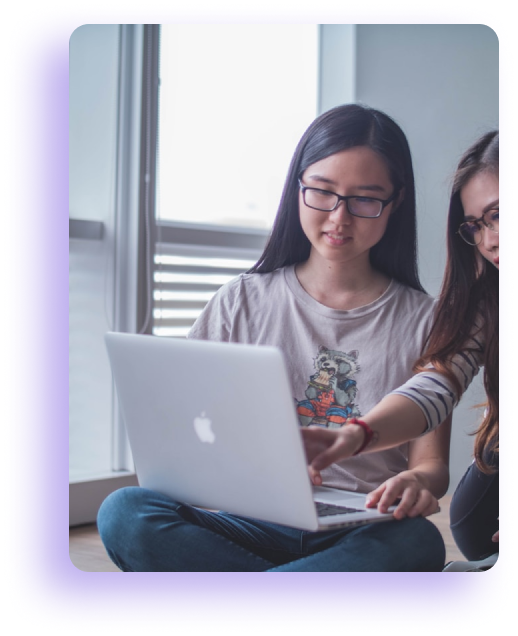
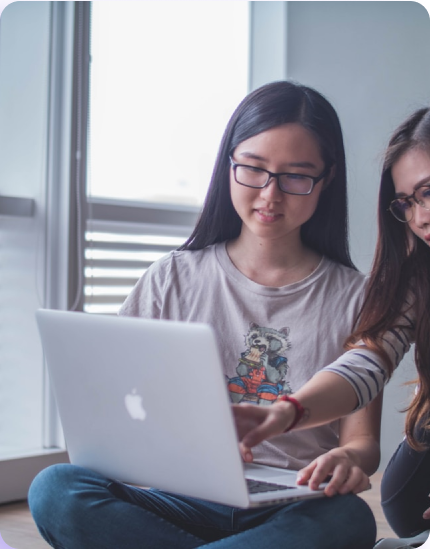
diplom

diff --git a/main.html b/main.html
@@ -45,6 +45,9 @@
                 </div>
             </header>
             <section class="building">
+                <div class="duilding__img">
+                    <img src="./images/featured-image.png" alt="">
+                </div>
                 <div class="conteiner">
                     <div class="building__row">
                         <div class="building__content">
@@ -56,9 +59,6 @@
                             <button>Start a New Store</button>
                             <span>or</span>
                             <a href=""><b>Customize & Extend ›</b></a>
-                        </div>
-                        <div class="duilding__img">
-                            <img src="./images/featured-image.png" alt="">
                         </div>
                     </div>
                 </div>
@@ -90,13 +90,16 @@
                 </div>
             </section>
             <section class="global">
+                <div class="global__img-fon">
+                    <img src="./images/Rectangle 234.png" alt="">
+                </div>
                 <div class="conteiner">
                     <div class="global__row">
                         <div>
                             <img src="./images/Rectangle 236.png" alt="">
                         </div>
-                        <div>
-                            <h3>Develop Without Limits</h3>
+                        <div class="global__content">
+                            <h3>Develop <br> Without Limits</h3>
                             <p>
                                 WooCommerce is developer friendly, too. Built with a REST API, WooCommerce is scalable and can integrate with virtually any service. Design a complex store from scratch, extend a store for a client, or simply add a single product to a WordPress site—your store, your way.
                             </p>
@@ -108,7 +111,7 @@
                             <img src="./images/Rectangle 233.png" alt="">
                         </div>
                         <div>
-                            <h3>Know our Global Community</h3>
+                            <h3>Know our <br> Global Community</h3>
                             <p>
                                 WooCommerce is one of the fastest-growing eCommerce communities. We’re proud that the helpfulness of the community and a wealth of online resources are frequently cited as reasons our users love it. There are 80+ meetups worldwide!
                             </p>
@@ -117,7 +120,52 @@
                     </div>
                 </div>
             </section>
-            
-        
+            <section class="agencies">
+                <div class="conteiner">
+                    <h3>Trusted by Agencies
+                        & Store Owners</h3>
+                </div>
+                <div class="agencies__grows">
+                    <div class="agencies__grows-img">
+                        <img src="./images/block4/123.png" alt="">
+                    </div>
+                    <p>
+                        No other eCommerce platform allows people to start for free and grow their store as their business grows. More importantly, WooCommerce doesn't charge you a portion of your profits as your business grows!
+                    </p>
+                </div>
+            </section>
+            <section class="supported">
+                <div class="conteiner">
+                    <h3>Supported by real people</h3>
+                    <p>
+                        Our team of Happiness Engineers works remotely from 58 countries providing customer support across multiple time zones.
+                    </p>
+                    <div class="supported__img">
+                        <img src="./images/image 24.png" alt="">
+                    </div>
+                    
+                </div>
+                <div class="supported__fon">
+                    <div class="conteiner conteiner__row">
+                    <p>
+                        WooCommerce - the <b> most customizable eCommerce platform </b> for building <b> your online business.</b>
+                    </p>
+                    <button>GET STARTED</button>
+                </div>
+            </section>
+            <footer>
+                <div class="conteiner">
+                    <div class="footer__garant">
+                        <div class="footer__garant-money">
+                            <div class="footer__garant-img">
+                                <img src="./images/block5/Vector.png" alt="">
+                            </div>
+                            <p>
+                                30 day <b>money back guarantee</b>
+                            </p>
+                        </div>
+                    </div>
+                </div>
+            </footer>
     </body>
 </html>

diff --git a/main.css b/main.css
@@ -2,25 +2,28 @@ p,span{
     font-family:"Roboto", sans-serif;
 }
 h1,h2,h3,h4,h5,h6{
-    font-family: "Merriweather", sans-serif;
+    font-family: "Roboto", sans-serif;
     font-weight: bold;
 }
 a{
     font-family:"Roboto", sans-serif;
     text-decoration-line: none;
 }
+button{
+    outline: none;
+    box-shadow: none;
+}
 body{
     margin: 0;
-    box-sizing: border-box;
-    
+    box-sizing: border-box;    
 }
 .hero-fon{
-    width: 1920px;
+    width: 100%;
     background: linear-gradient(180deg, #E5EFFF 0%, rgba(229, 239, 255, 0.262661) 83.7%, rgba(229, 239, 255, 0) 100%);
    
 }
 .hero{
-    width: 1920px;
+    width: 100%;
     display: flex;
     justify-content: space-between;
     
@@ -72,14 +75,21 @@ body{
     margin: 0 30px 0 38px;
 }
 .conteiner{
-    width: 1490px;
+    width: 1320px;
     padding: 0 20px;
     margin: 0 auto;
+    position: relative;
+}
+.building{
+    position: relative;
 }
 .building__row{
     width: 100%;
     display: flex;
     justify-content: space-between;
+}
+.building img{
+    width: 100%;
 }
 .building__content h1{
     width: 818px;
@@ -109,13 +119,13 @@ body{
     color: #94A2B3;
 }
 .duilding__img{
-    width: 850px;
+    width: 40%;
     position: absolute;
-    margin-left: 80%;
+    right: 0;
     margin-top: 69px;
 }
 .simple{
-    width: 1920px;
+    width: 100%;
 }
 .simple h3{
     text-align: center;
@@ -161,14 +171,167 @@ body{
     font-weight: bold;
 }
 .global{
-    background: #7854F7;
-    width: 1920px;
+        width: 100%;
     margin-top: 273px;
+    margin-bottom: 99px;
+}
+.global__img-fon{
+    position: absolute;
+    width: 100%;
+    margin-top: 41px;
+}
+.global__img-fon img{
+    width: 100%;
 }
 .global__row{
     display: flex;
+    margin-left: 108px;
 }
 .global__row-reversed{
     display: flex;
     flex-direction: row-reverse;
+}
+.global__row img{
+    width: 430px;
+    background: url(.jpg), #FFFFFF;
+    box-shadow: -25px 20px 44px rgba(84, 48, 209, 0.4);
+    border-radius: 20px;
+
+}
+.global__content{
+    margin: 138px 0 0 70px
+}
+.global h3{
+    color: #FFFFFF;
+    font-size: 36px;
+    width: 435px;
+    margin: 0;
+}
+.global p{
+    width: 480px;
+    font-size: 18px;
+    color: #FFFFFF;
+    margin: 13px 0 39px 0;
+}
+.global button{
+    border-radius: 60px;
+    background: #70C217;
+    width: 256px;
+    height: 64px;
+    color: #FFFFFF;    
+}
+.agencies{
+    width: 100%;
+    background: linear-gradient(180deg, rgba(236, 240, 253, 0) 0%, rgba(236, 240, 253, 0.53) 14.32%, #ECF0FD 45.83%, rgba(236, 240, 253, 0.43) 84.33%, rgba(236, 240, 253, 0) 100%);
+}
+
+.agencies h3{
+    font-size: 55px;
+    text-align: center;
+    width: 520px;
+    margin: 0 auto;
+    color: #272D4E;
+    margin-top: 237px;
+}
+.agencies__grows{
+    width: 730px;
+    height: 391px;
+    background: #FFFFFF;
+    box-shadow: 0px 18px 52.8537px rgba(215, 228, 249, 0.5);
+    border-radius: 20px;
+    margin: auto;
+    display: flex;
+    flex-direction: column;
+    margin-top: 103px;
+    
+}
+.agencies__grows p{
+    width: 566px;
+    color: #94A2B3;
+    font-size: 26.7px;
+    text-align: center;
+    margin: auto;
+    position: relative;
+}
+.agencies__grows-img{
+    width: 234px;
+    position: absolute;
+    margin-top: 28px;
+    left: 50%;
+    transform: translateX(-50%);
+}
+.supported h3{
+    color: #272D4E;
+    font-size: 55px;
+    text-align: center;
+    margin: 272px 0 31px 0;
+}
+.supported p{
+    width: 660px;
+    font-size: 18px;
+    text-align: center;
+    color: #94A2B3;
+    margin: 16px auto 0 ;
+}
+.supported__img{
+    width: 1300px;
+    margin: 0 auto;
+}
+.supported img{
+    width: 100%;
+    display:block;
+}
+.supported__fon{
+    width: 100%;
+    height: 261px;
+    background: #5F37EF;
+}
+.conteiner__row{
+    display: flex;
+    height: 100%;
+}
+.supported__fon p{
+    color: #FFFFFF;
+    font-size: 36px;
+    width: 855px;
+    margin: auto;
+    text-align: left;
+}
+.supported__fon button{
+    border-radius: 60px;
+    width: 207px;
+    height: 72px;
+    border: 2px solid #FFFFFF;
+    font-weight: bold;
+    font-family: "Roboto", sans-serif;
+    background: #5F37EF;
+    margin: auto;
+    color: #FFFFFF;
+}
+footer{
+    width: 100%;
+    background: #7854F7;
+}    
+.footer__garant{
+    display: flex;
+}
+.footer__garant-money{
+    display: flex;
+
+}
+.footer__garant-img{
+    width: 41px;
+    margin: auto;
+}
+.footer__garant img{
+    width: 100%;
+}
+.footer__garant p{
+    color: #FFFFFF;
+    font-size: 20px;
+    width: 269px;
+    margin-left: 15px;
+}
+.footer__garant img{
+    width: ;
 }
